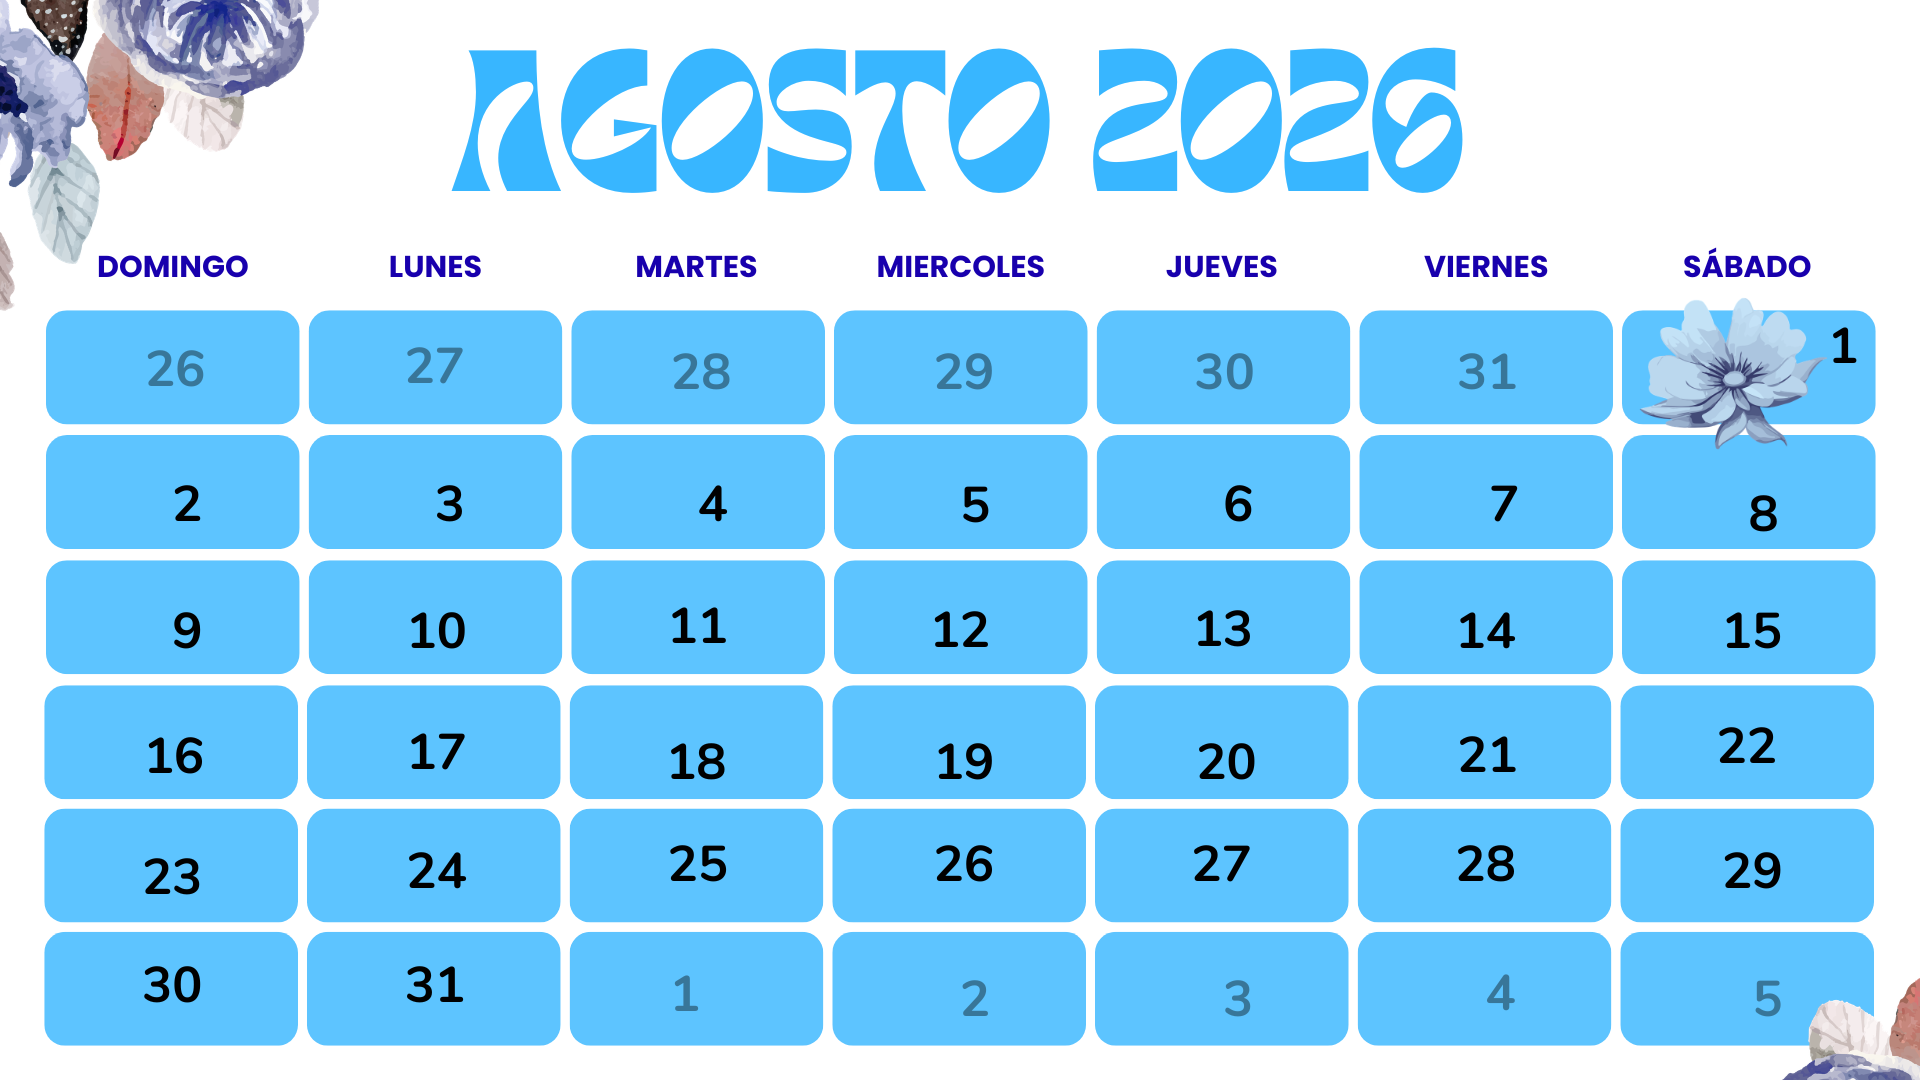
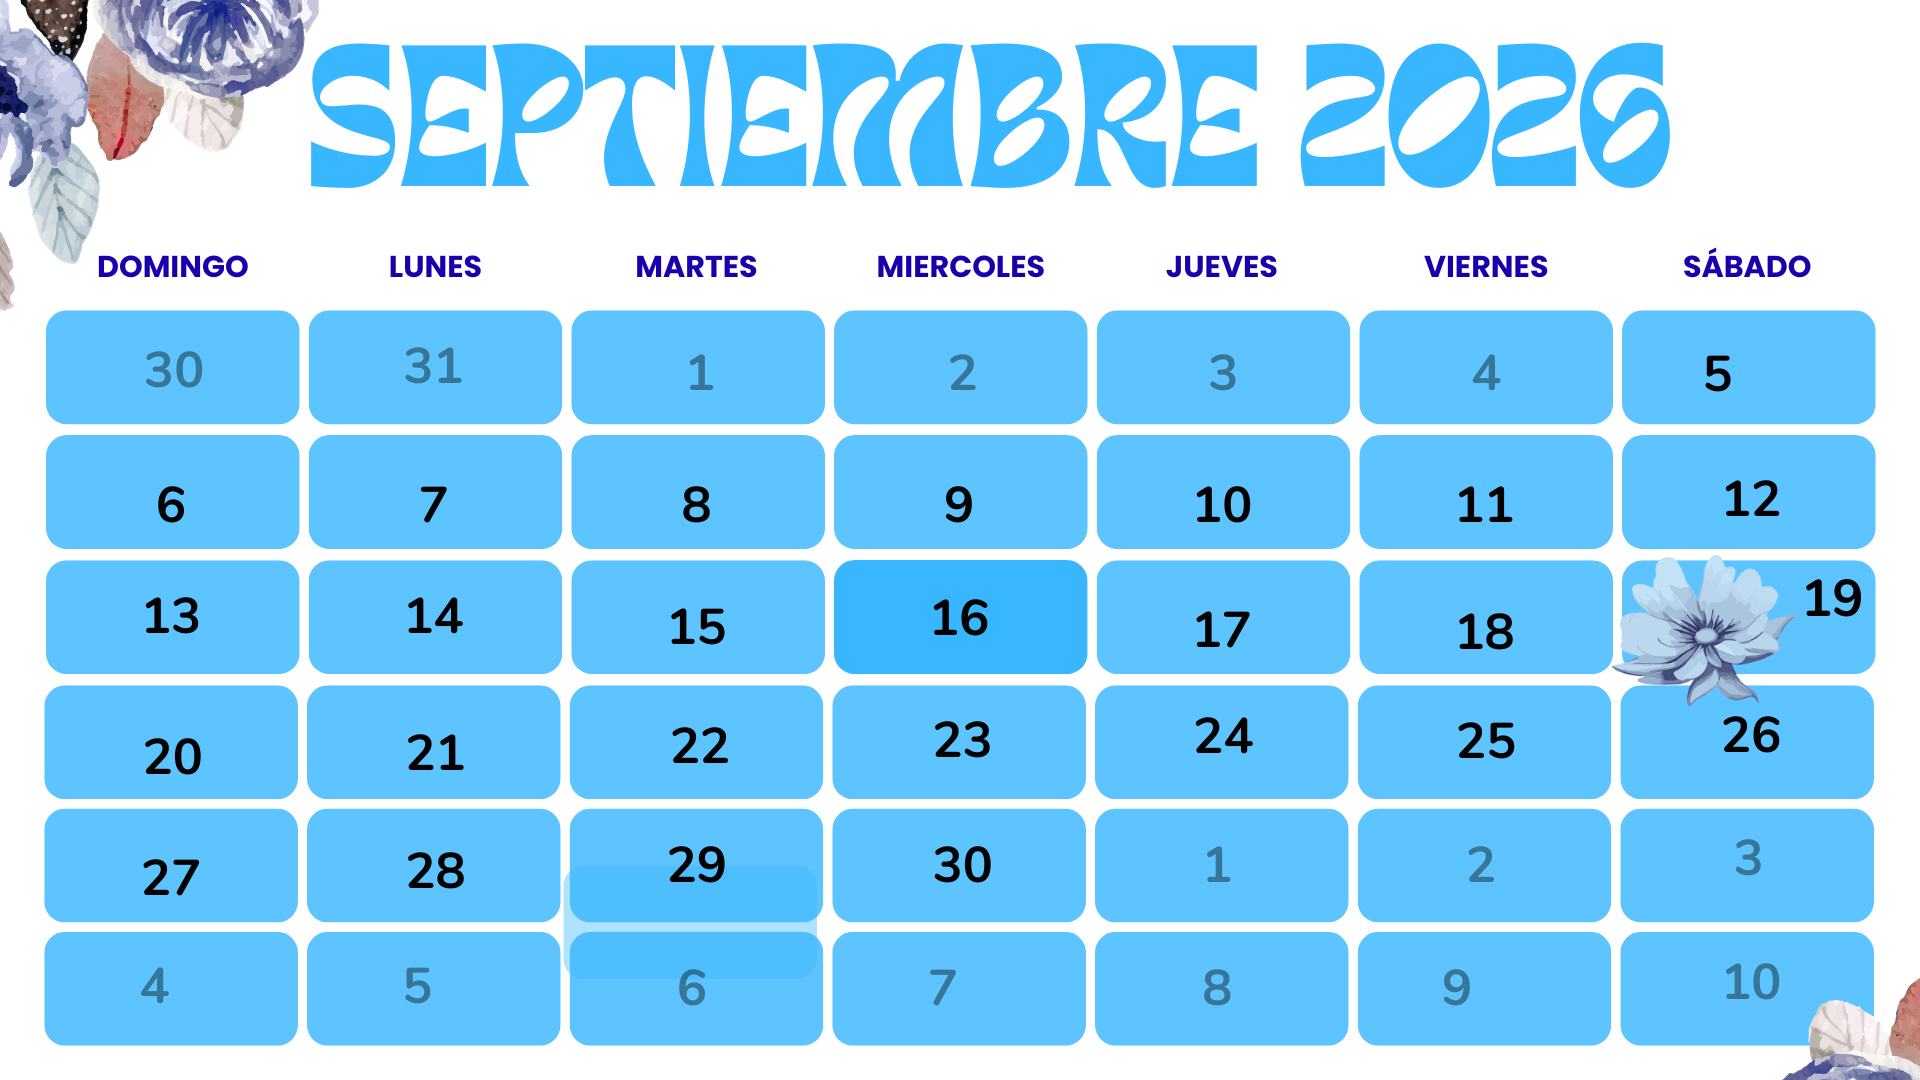
Se cambio la fecha de la fiesta

diff --git a/index.html b/index.html
@@ -213,7 +213,7 @@
                 <h2 class="titulo">Confirma tu asistencia</h2>
                 <p class="parrafo-1">Tu presencia es muy importante para nosotros. Por favor, confirma tu asistencia.
                 </p>
-                <a href="https://wa.me/5636549417?text=Hola%20,%20me%20gustaría%20confirmar%20mi%20asistencia%20a%20la%20fiesta%20de%20Leonardo%20*no%20faltaré*." class="button2" target="_blank">
+                <a href="https://wa.me/5633001091?text=Hola%20,%20me%20gustaría%20confirmar%20mi%20asistencia%20a%20la%20fiesta%20de%20Leonardo%20*no%20faltaré*." class="button2" target="_blank">
                     WhatsApp
                     <svg viewBox="0 0 48 48" y="0px" x="0px" xmlns="http://www.w3.org/2000/svg">
                         <path
@@ -243,7 +243,7 @@
 
     <script>
         // Cambia esta fecha por la fecha real del evento
-        const fechaEvento = new Date('2026-08-01T18:30:00');
+        const fechaEvento = new Date('2026-09-19T18:30:00');
 
         function actualizarContador() {
             const ahora = new Date();
